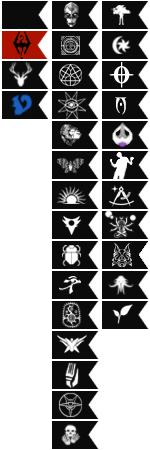
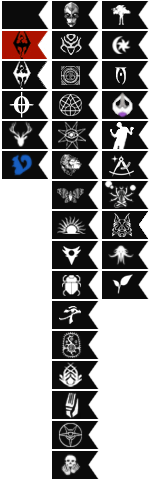
flair overhaul

diff --git a/teslore/flair/private.sass b/teslore/flair/private.sass
@@ -1,60 +1,62 @@
 /*	flair/private	*/
-span.flair
-	&.flair-Council
-		background:
-			position:	0 -30px
-	&.flair-Elk
-		background:
-			position:	0 -60px
-	&.flair-Squirrel
-		background:
-			position:	0 -90px
-	&.flair-AnXileel
-		background:
-			position:	-100px 0
-	&.flair-Azura
-		background:
-			position:	-100px -30px
-	&.flair-c0da
-		background:
-			position:	-100px -60px
-	&.flair-Dagonite
-		background:
-			position:	-100px -90px
-	&.flair-Dibella
-		background:
-			position:	-100px -120px
-	&.flair-Gerka
-		background:
-			position:	-100px -150px
-	&.flair-IGS
-		background:
-			position:	-100px -180px
-	&.flair-Mane
-		background:
-			position:	-100px -210px
-	&.flair-Orcpocrypha
-		background:
-			position:	-100px -240px
-	&.flair-Seeker
-		background:
-			position:	-100px -270px
-	&.flair-Storyteller
-		background:
-			position:	-100px -300px
-	&.flair-Unique
-		left:	0
-		margin:
-			top:	-3px
-			right:	0
-		& + span.userattrs
-			display:	none
+span.flair-Council	//	Moderators
+	background:
+		position:	0 -30px
+span.flair-ex-Council	//	Retired Moderators
+	background:
+		position:	0 -60px
+span.flair-c0da	//	CSS Authors
+	background:
+		position:	0 -90px
+span.flair-Elk	//	Michael Kirkbride
+	background:
+		position:	0 -120px
+span.flair-Squirrel	//	LadyNerevar
+	background:
+		position:	0 -150px
+span.flair-AnXileel	//	IceFireWarden (formerly Xenoposeidon)
+	background:
+		position:	-100px 0
+span.flair-Azura	//	Mdnthrvst
+	background:
+		position:	-100px -30px
+span.flair-Dagonite	//	mojonation1487
+	background:
+		position:	-100px -60px
+span.flair-Dibella	//	Avian81
+	background:
+		position:	-100px -90px
+span.flair-Gerka	//	Gerka
+	background:
+		position:	-100px -120px
+span.flair-IGS	//	Hollymarkie
+	background:
+		position:	-100px -150px
+span.flair-Mane	//	Mr_Flippers
+	background:
+		position:	-100px -180px
+span.flair-Orcpocrypha	//	myrrlyn (formerly)
+	background:
+		position:	-100px -210px
+span.flair-Seeker	//	(formerly dbcification)
+	background:
+		position:	-100px -240px
+span.flair-Storyteller	//	lebiro
+	background:
+		position:	-100px -270px
+//	span.flair-Unique
+//		left:	0
+//		margin:
+//			top:	-3px
+//			right:	0
+//		& + span.userattrs
+//			display:	none
 // MK-specific things
-body.res div.content div.commentarea div.thing.comment div.entry p.tagline a.author.id-t2_dhl5b,
+body.res div.comment a.author.id-t2_dhl5b,
 a.author.id-t2_dhl5b
 	&:after
 		content:	" | WRITER"
-	& + span.RESUserTag
-		display:	none	!important
-		& + a.voteWeight
-			display:	none	!important
+//		& + span.RESUserTag
+//			display:	none	!important
+//			& + a.voteWeight
+//				display:	none	!important

diff --git a/teslore/flair/public.sass b/teslore/flair/public.sass
@@ -1,47 +1,49 @@
 /*	flair/public	*/
-span.flair
-	&.flair-Armiger	//	Buoyant Armiger
-		background:
-			position:	-50px 0
-	&.flair-Dwemer	//	Dwemer Scholar
-		background:
-			position:	-50px -30px
-	&.flair-Julianos	//	Follower of Julianos
-		background:
-			position:	-50px -60px
-	&.flair-Mages	//	Mages Guild Scholar
-		background:
-			position:	-50px -90px
-	&.flair-Marukhati	//	Marukhati Selective
-		background:
-			position:	-50px -120px
-	&.flair-Moth	//	Ancestor Moth Cultist
-		background:
-			position:	-50px -150px
-	&.flair-Mythic	//	Mythic Dawn Cultist
-		background:
-			position:	-50px -180px
-	&.flair-Psijic	//	Psijic Monk
-		background:
-			position:	-50px -210px
-	&.flair-Scarab	//	Tonal Architect
-		background:
-			position:	-50px -240px
-	&.flair-Synod	//	Synod Cleric
-		background:
-			position:	-50px -270px
-	&.flair-Telvanni	//	Telvanni Recluse
-		background:
-			position:	-50px -300px
-	//&.flair-Thalmor	//	Thalmor Justiciar
-	//	background:
-	//		position:	-50px -330px
-	&.flair-Tribunal	//	Member of the Tribunal Temple
-		background:
-			position:	-50px -360px
-	&.flair-Winterhold	//	Winterhold Scholar
-		background:
-			position:	-50px -390px
-	&.flair-Worm	//	Black Worm Anchorite
-		background:
-			position:	-50px -420px
+span.flair-Armiger	//	Buoyant Armiger
+	background:
+		position:	-50px 0
+span.flair-Dovah	//	Dragon Cultist
+	background:
+		position:	-50px -30px
+span.flair-Dwemer	//	Dwemer Scholar
+	background:
+		position:	-50px -60px
+span.flair-Julianos	//	Follower of Julianos
+	background:
+		position:	-50px -90px
+span.flair-Mages	//	Mages Guild Scholar
+	background:
+		position:	-50px -120px
+span.flair-Marukhati	//	Marukhati Selective
+	background:
+		position:	-50px -150px
+span.flair-Moth	//	Ancestor Moth Cultist
+	background:
+		position:	-50px -180px
+span.flair-Mythic	//	Mythic Dawn Cultist
+	background:
+		position:	-50px -210px
+span.flair-Psijic	//	Psijic Monk
+	background:
+		position:	-50px -240px
+span.flair-Scarab	//	Tonal Architect
+	background:
+		position:	-50px -270px
+span.flair-Synod	//	Synod Cleric
+	background:
+		position:	-50px -300px
+span.flair-Telvanni	//	Telvanni Recluse
+	background:
+		position:	-50px -330px
+span.flair-Treethane	//	Bosmeri Treethane
+	background:
+		position:	-50px -360px
+span.flair-Tribunal	//	Member of the Tribunal Temple
+	background:
+		position:	-50px -390px
+span.flair-Winterhold	//	Winterhold Scholar
+	background:
+		position:	-50px -420px
+span.flair-Worm	//	Black Worm Anchorite
+	background:
+		position:	-50px -450px

diff --git a/teslore/flair/attributes.sass b/teslore/flair/attributes.sass
@@ -1,57 +1,55 @@
 /*	flair/attributes	*/
-div.thing
-	p.tagline
-		span.userattrs
-			font:
-				size:	14px
-			a.admin
-				font:
-					family:	$mage-set
-			span.alum
-				font:
-					family:	$falmer-set
-			a.cakeday
-			a.friend
-				font:
-					family:	$daedric-set
-			a.moderator
-				font:
-					family:	$dovah-set
-			a.submitter
-				font:
-					family:	$dwemer-set
-//				font:
-//					size:	0
-//				position:	relative
-//				right:	50px
-//				a.admin
-//					+userattrs(0)
-//				span.alum
-//					+userattrs(-5px)
-//				a.cakeday
-//					+userattrs(-10px)
-//					height:	0
-//					width:	0
-//					top:	-4px
-//				a.friend
-//					+userattrs(-15px)
-//				a.moderator
-//					+userattrs(-20px)
-//				a.submitter
-//					+userattrs(-25px)
-//				*:nth-child(1)
-//					right:	3px
-//				*:nth-child(2)
-//					right:	13px
-//				*:nth-child(3)
-//					right:	23px
-//				*:nth-child(4)
-//					right:	33px
-//				*:nth-child(5)
-//					right:	43px
-//				*:nth-child(6)
-//					right:	53px
-//			a.author + span.userattrs,
-//			a.voteWeight + span.userattrs
-//				margin-right:	10px
-//				right:	-10px
+span.userattrs
+	font:
+		size:	14px
+	a.admin
+		font:
+			family:	$mage-set
+	span.alum
+		font:
+			family:	$falmer-set
+	a.cakeday
+	a.friend
+		font:
+			family:	$daedric-set
+	a.moderator
+		font:
+			family:	$dovah-set
+	a.submitter
+		font:
+			family:	$dwemer-set
+//		font:
+//			size:	0
+//		position:	relative
+//		right:	50px
+//		a.admin
+//			+userattrs(0)
+//		span.alum
+//			+userattrs(-5px)
+//		a.cakeday
+//			+userattrs(-10px)
+//			height:	0
+//			width:	0
+//			top:	-4px
+//		a.friend
+//			+userattrs(-15px)
+//		a.moderator
+//			+userattrs(-20px)
+//		a.submitter
+//			+userattrs(-25px)
+//		*:nth-child(1)
+//			right:	3px
+//		*:nth-child(2)
+//			right:	13px
+//		*:nth-child(3)
+//			right:	23px
+//		*:nth-child(4)
+//			right:	33px
+//		*:nth-child(5)
+//			right:	43px
+//		*:nth-child(6)
+//			right:	53px
+//	a.author + span.userattrs,
+//	a.voteWeight + span.userattrs
+//		margin-right:	10px
+//		right:	-10px
